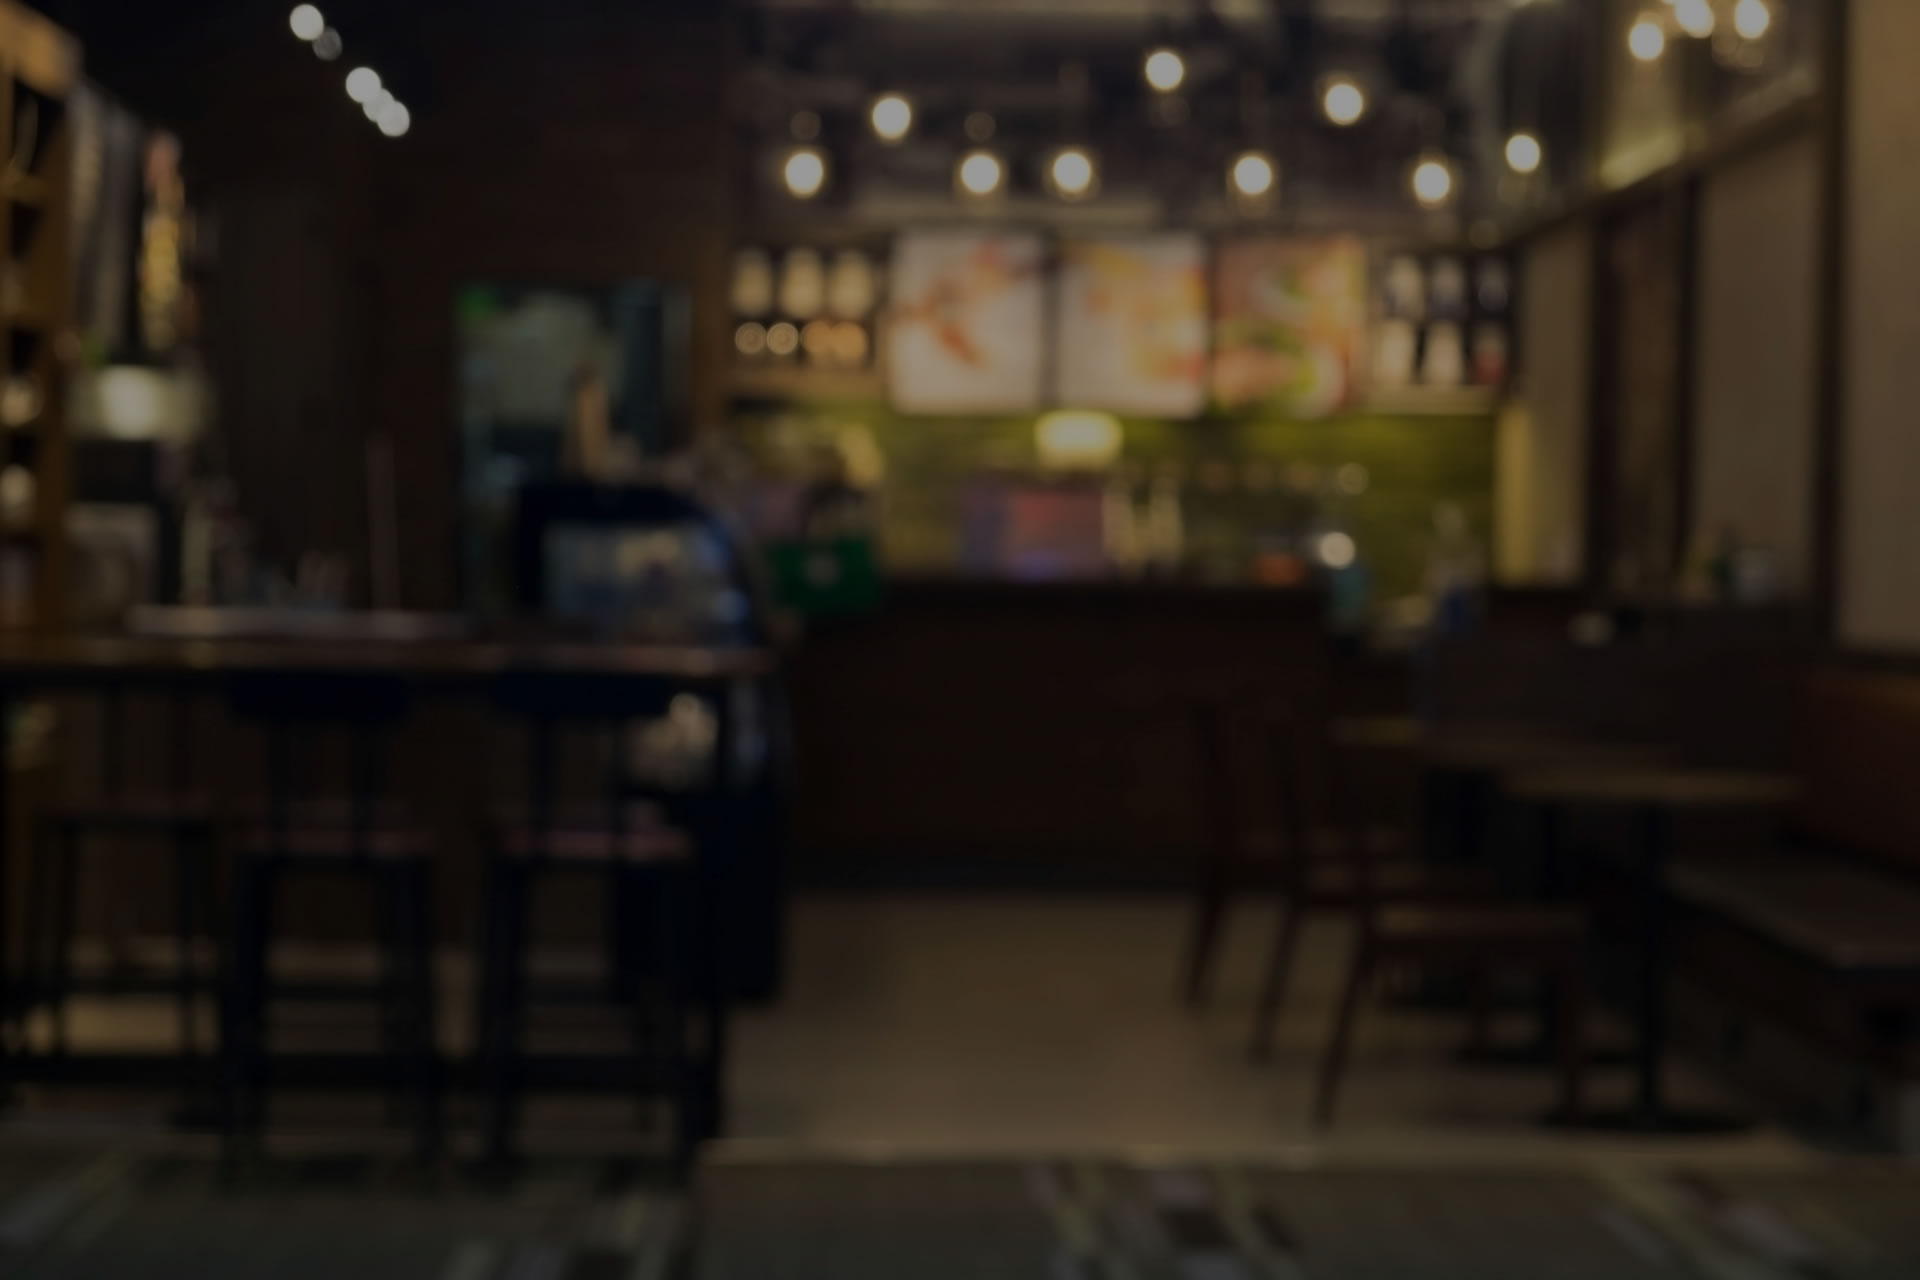
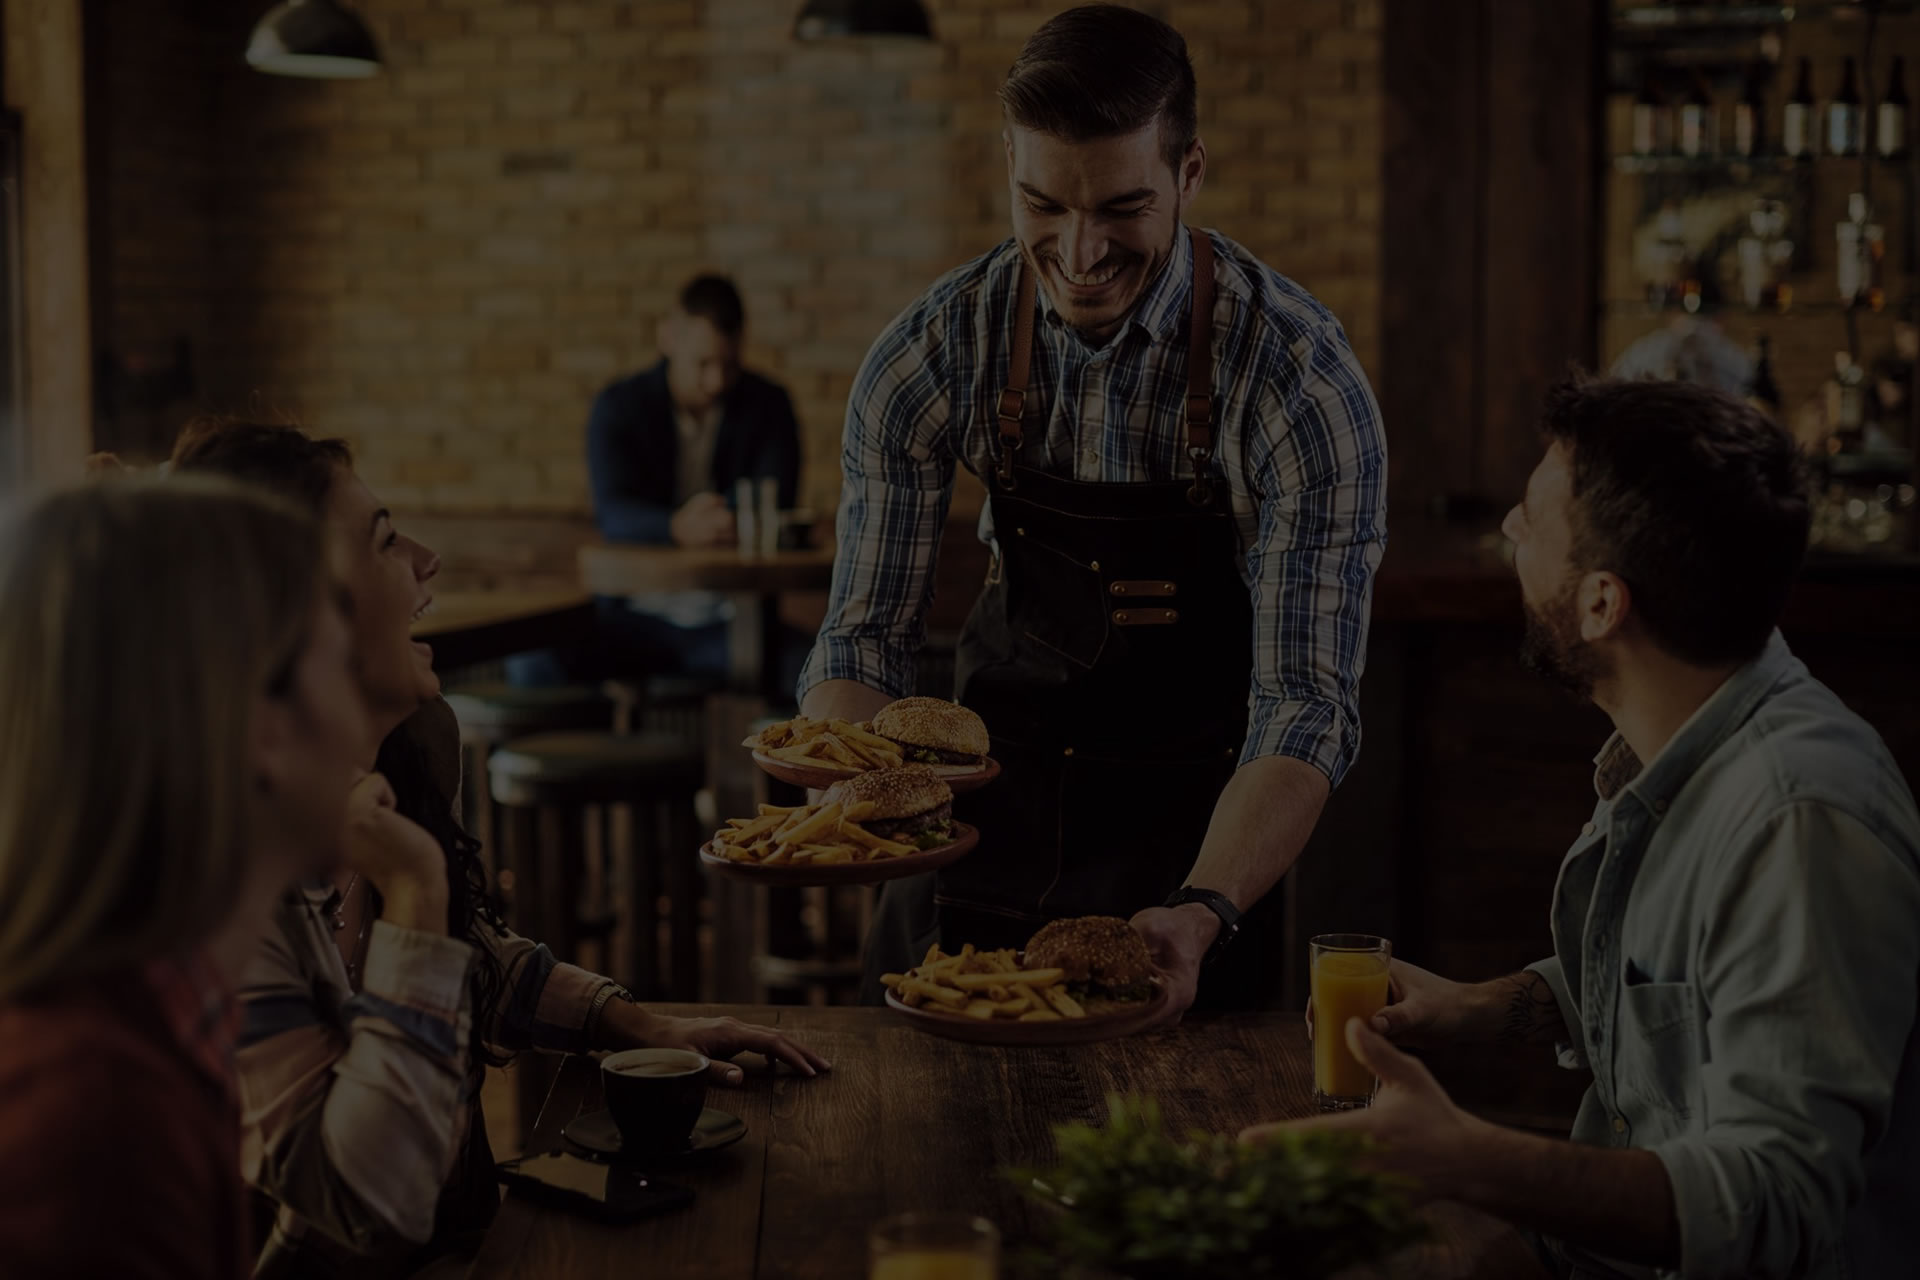
homolog-01

diff --git a/index3.html b/index3.html
@@ -45,7 +45,7 @@
       <a href="index.html" class="logo d-flex align-items-center">
         <!-- Uncomment the line below if you also wish to use an image logo -->
         <img src="assets/img/logo-gl.png" alt="">
-        <!-- <h1 class="sitename">Axis</h1> -->
+        <!-- <h1 class="sitename">Guardiões do Lucro</h1> -->
       </a>
 
       <!-- Menu principal -->
@@ -54,13 +54,10 @@
           <li><a href="#hero" class="active">Início</a></li>
           <li class="dropdown"><a href="#"><span>Nosso trabalho</span> <i class="bi bi-chevron-down toggle-dropdown"></i></a>
             <ul>
-              <li><a href="#services">Público alvo</a></li>
-              <li><a href="#">Dropdown 2</a></li>
-              <li><a href="#">Dropdown 3</a></li>
-              <li><a href="#">Dropdown 4</a></li>
+              <li><a href="#services">Restaurantes</a></li>
+              <li><a href="#consultoria">Consultoria estratégica</a></li>
             </ul>
           </li>
-          <li><a href="#services">Services</a></li>
           <li><a href="#nos">Sobre nós</a></li>
           <li><a href="#contato">Contato</a></li>
           <li class="btn-whatsapp"><a href="https://wa.me/5551995962814" target="_blank"><i class="bi bi-whatsapp" style="margin-right:10px; font-size: 18px;"></i> (51)99596-2814</a></li>
@@ -588,15 +585,7 @@ Serão mais de 60 horas de conteúdo ao vivo e online.</p>
         <div class="row gy-4">
           <div class="col-lg-5">
 
-            <div class="info-item">
-              <div class="info-icon">
-                <i class="bi bi-chat-dots"></i>
-              </div>
-              <div class="info-content hide">
-                <h4>Vamos nos conectar!</h4>
-                <p>Estamos aqui para discutir sua visão e explorar como podemos torná-la realidade juntos.</p>
-              </div>
-            </div>
+    
 
             <div class="contact-details">
 
@@ -605,8 +594,8 @@ Serão mais de 60 horas de conteúdo ao vivo e online.</p>
                   <i class="bi bi-envelope-open"></i>
                 </div>
                 <div class="detail-content">
-                  <span class="detail-label">Email us</span>
-                  <span class="detail-value">contact@example.com</span>
+                  <span class="detail-label">Nosso e-mail</span>
+                  <a href="mailto:guardioesdolucro@gmail.com" target="_blank"><span class="detail-value">guardioesdolucro@gmail.com</span></a>
                 </div>
               </div>
 
@@ -615,8 +604,8 @@ Serão mais de 60 horas de conteúdo ao vivo e online.</p>
                   <i class="bi bi-telephone-outbound"></i>
                 </div>
                 <div class="detail-content">
-                  <span class="detail-label">Call us</span>
-                  <span class="detail-value">+1 (555) 432-8976</span>
+                  <span class="detail-label">Ligue:</span>
+                  <a href="tel:5551995962814"><span class="detail-value">(51)99596-2814</span></a>
                 </div>
               </div>
 
@@ -625,8 +614,9 @@ Serão mais de 60 horas de conteúdo ao vivo e online.</p>
                   <i class="bi bi-geo-alt-fill"></i>
                 </div>
                 <div class="detail-content">
-                  <span class="detail-label">Visit us</span>
-                  <span class="detail-value">547 Madison Avenue<br>New York, NY 10022</span>
+                  <span class="detail-label">Visite-nos!</span>
+                  <a href="https://maps.app.goo.gl/GK8JHaUryCtSG81W9" target="_blank"><span class="detail-value">Av. Lautert Filho, 321 - Taquari/RS</span></a>
+                  <iframe src="https://www.google.com/maps/embed?pb=!1m18!1m12!1m3!1d4265.079787616079!2d-51.86581732370917!3d-29.790376675052624!2m3!1f0!2f0!3f0!3m2!1i1024!2i768!4f13.1!3m3!1m2!1s0x951b85777b947201%3A0x9e51bea8e2a94edf!2sR.%20Lautert%20Filho%2C%20321%20-%20Santo%20Ant%C3%B4nio%2C%20Taquari%20-%20RS%2C%2095860-000!5e1!3m2!1spt-BR!2sbr!4v1768391997917!5m2!1spt-BR!2sbr" width="100%" height="300" style="border:0; border-radius: 8px; margin-top: 20px;" allowfullscreen="" loading="lazy" referrerpolicy="no-referrer-when-downgrade"></iframe>
                 </div>
               </div>
 

diff --git a/assets/css/main.css b/assets/css/main.css
@@ -33,7 +33,7 @@
 
 /* Nav Menu Colors - The following color variables are used specifically for the navigation menu. They are separate from the global colors to allow for more customization options */
 :root {
-  --nav-color: #999999;  /* The default color of the main navmenu links */
+  --nav-color: #555555;  /* The default color of the main navmenu links */
   --nav-hover-color: #53459A; /* Applied to main navmenu links when they are hovered over or active */
   --nav-mobile-background-color: #ffffff; /* Used as the background color for mobile navigation menu */
   --nav-dropdown-background-color: #ffffff; /* Used as the background color for dropdown items that appear when hovering over primary navigation items */
@@ -302,7 +302,7 @@ h2 span {
   .navmenu a:focus {
     color: var(--nav-color);
     padding: 18px 15px;
-    font-size: 14px;
+    font-size: 15px;
     font-family: var(--nav-font);
     font-weight: 500;
     display: flex;
@@ -4232,7 +4232,7 @@ section,
 
 .about-secure li {
   color:#fff;
-  opacity: .5;
+  opacity: .7;
   list-style: none;
   text-wrap: balance;
 }
